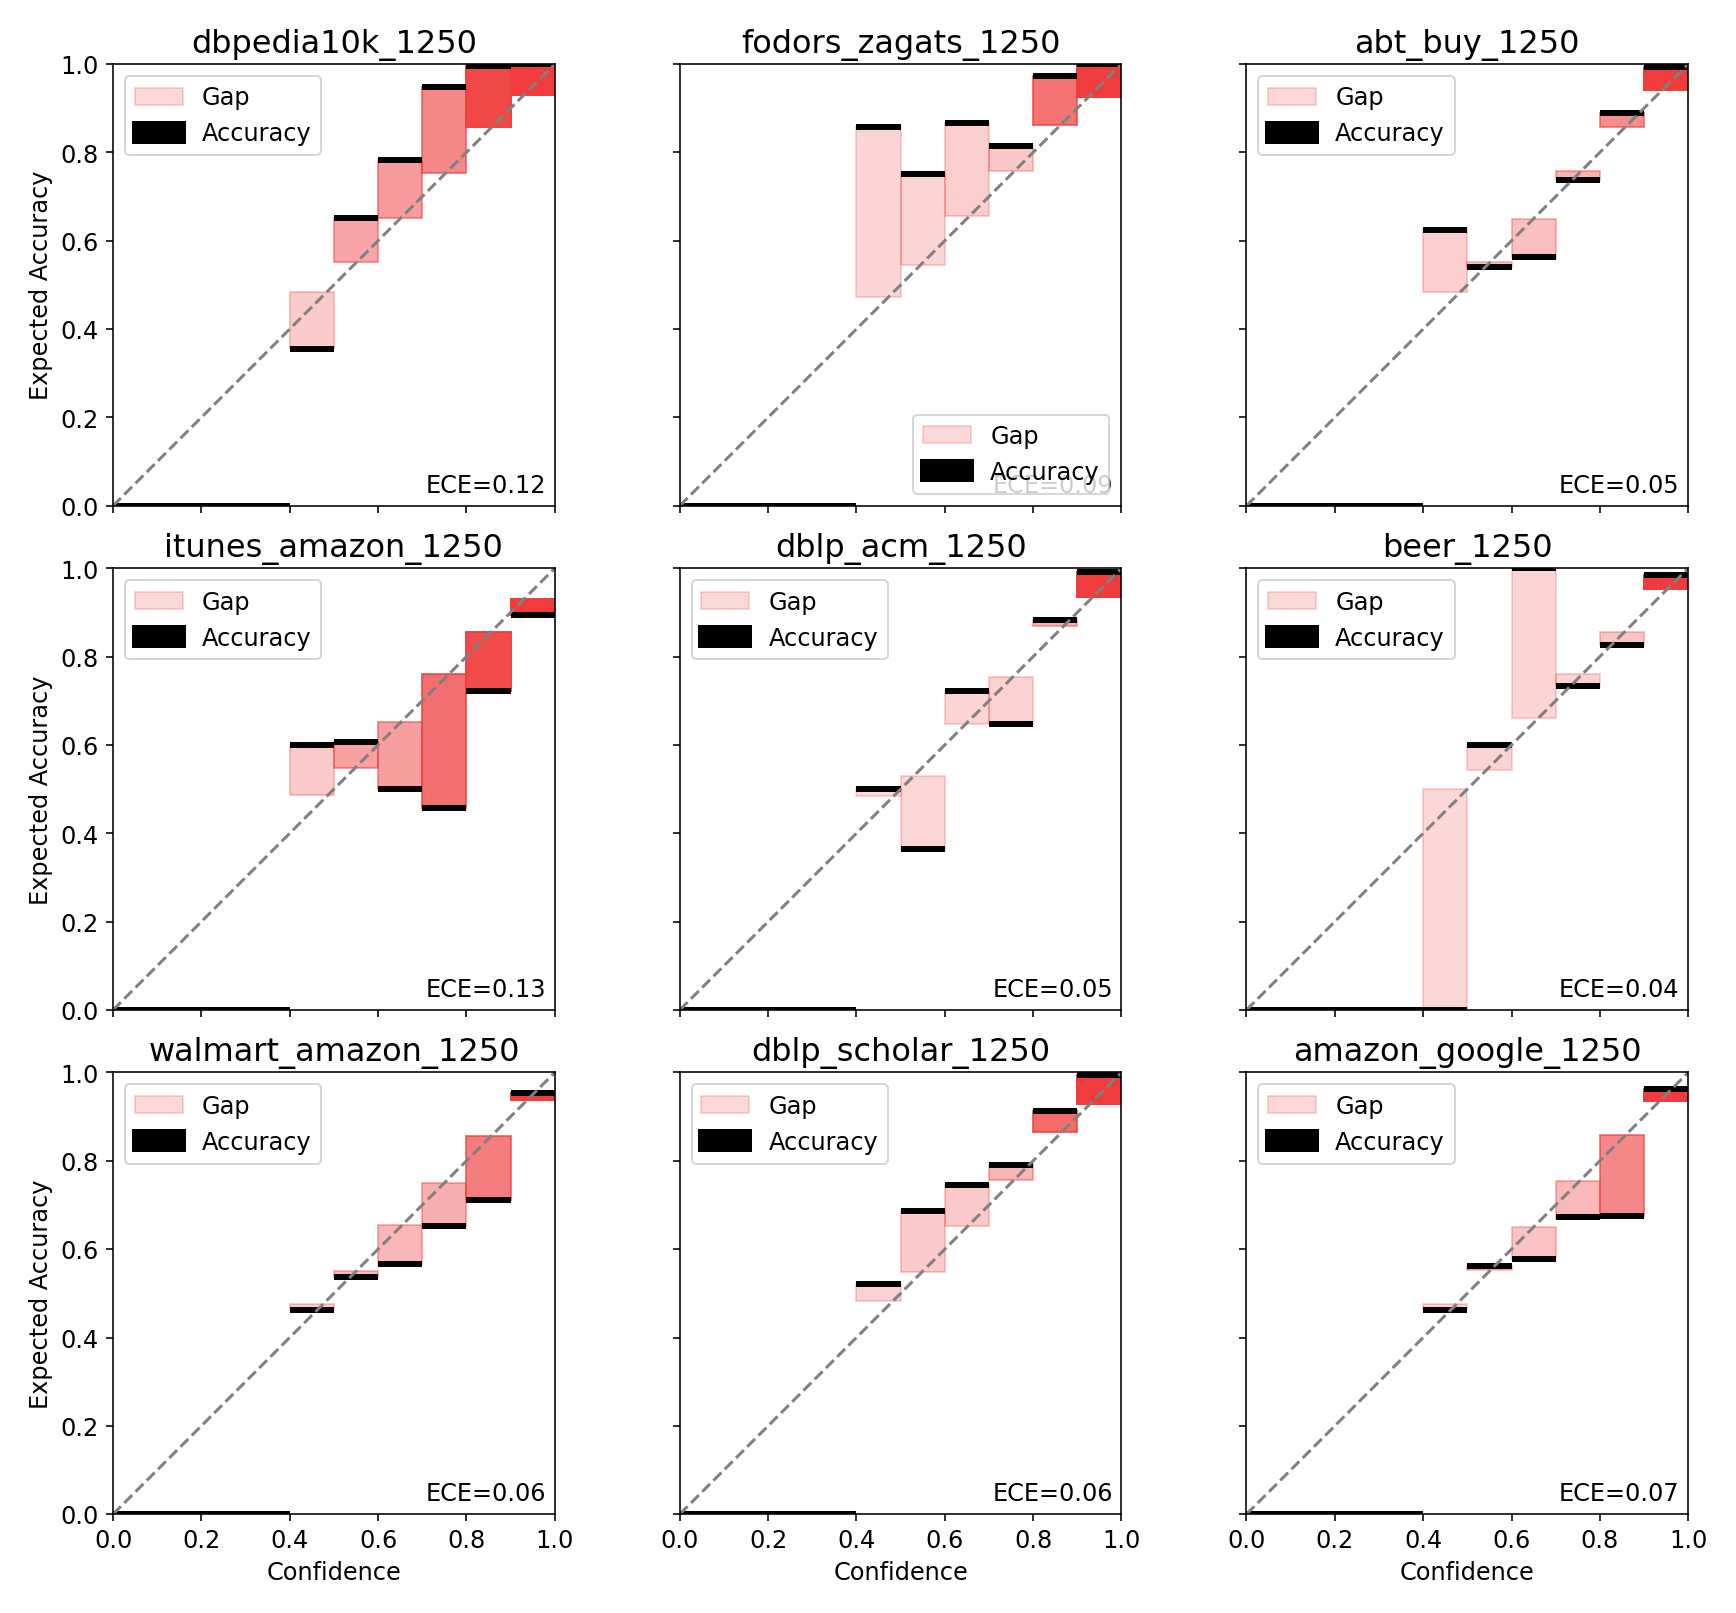
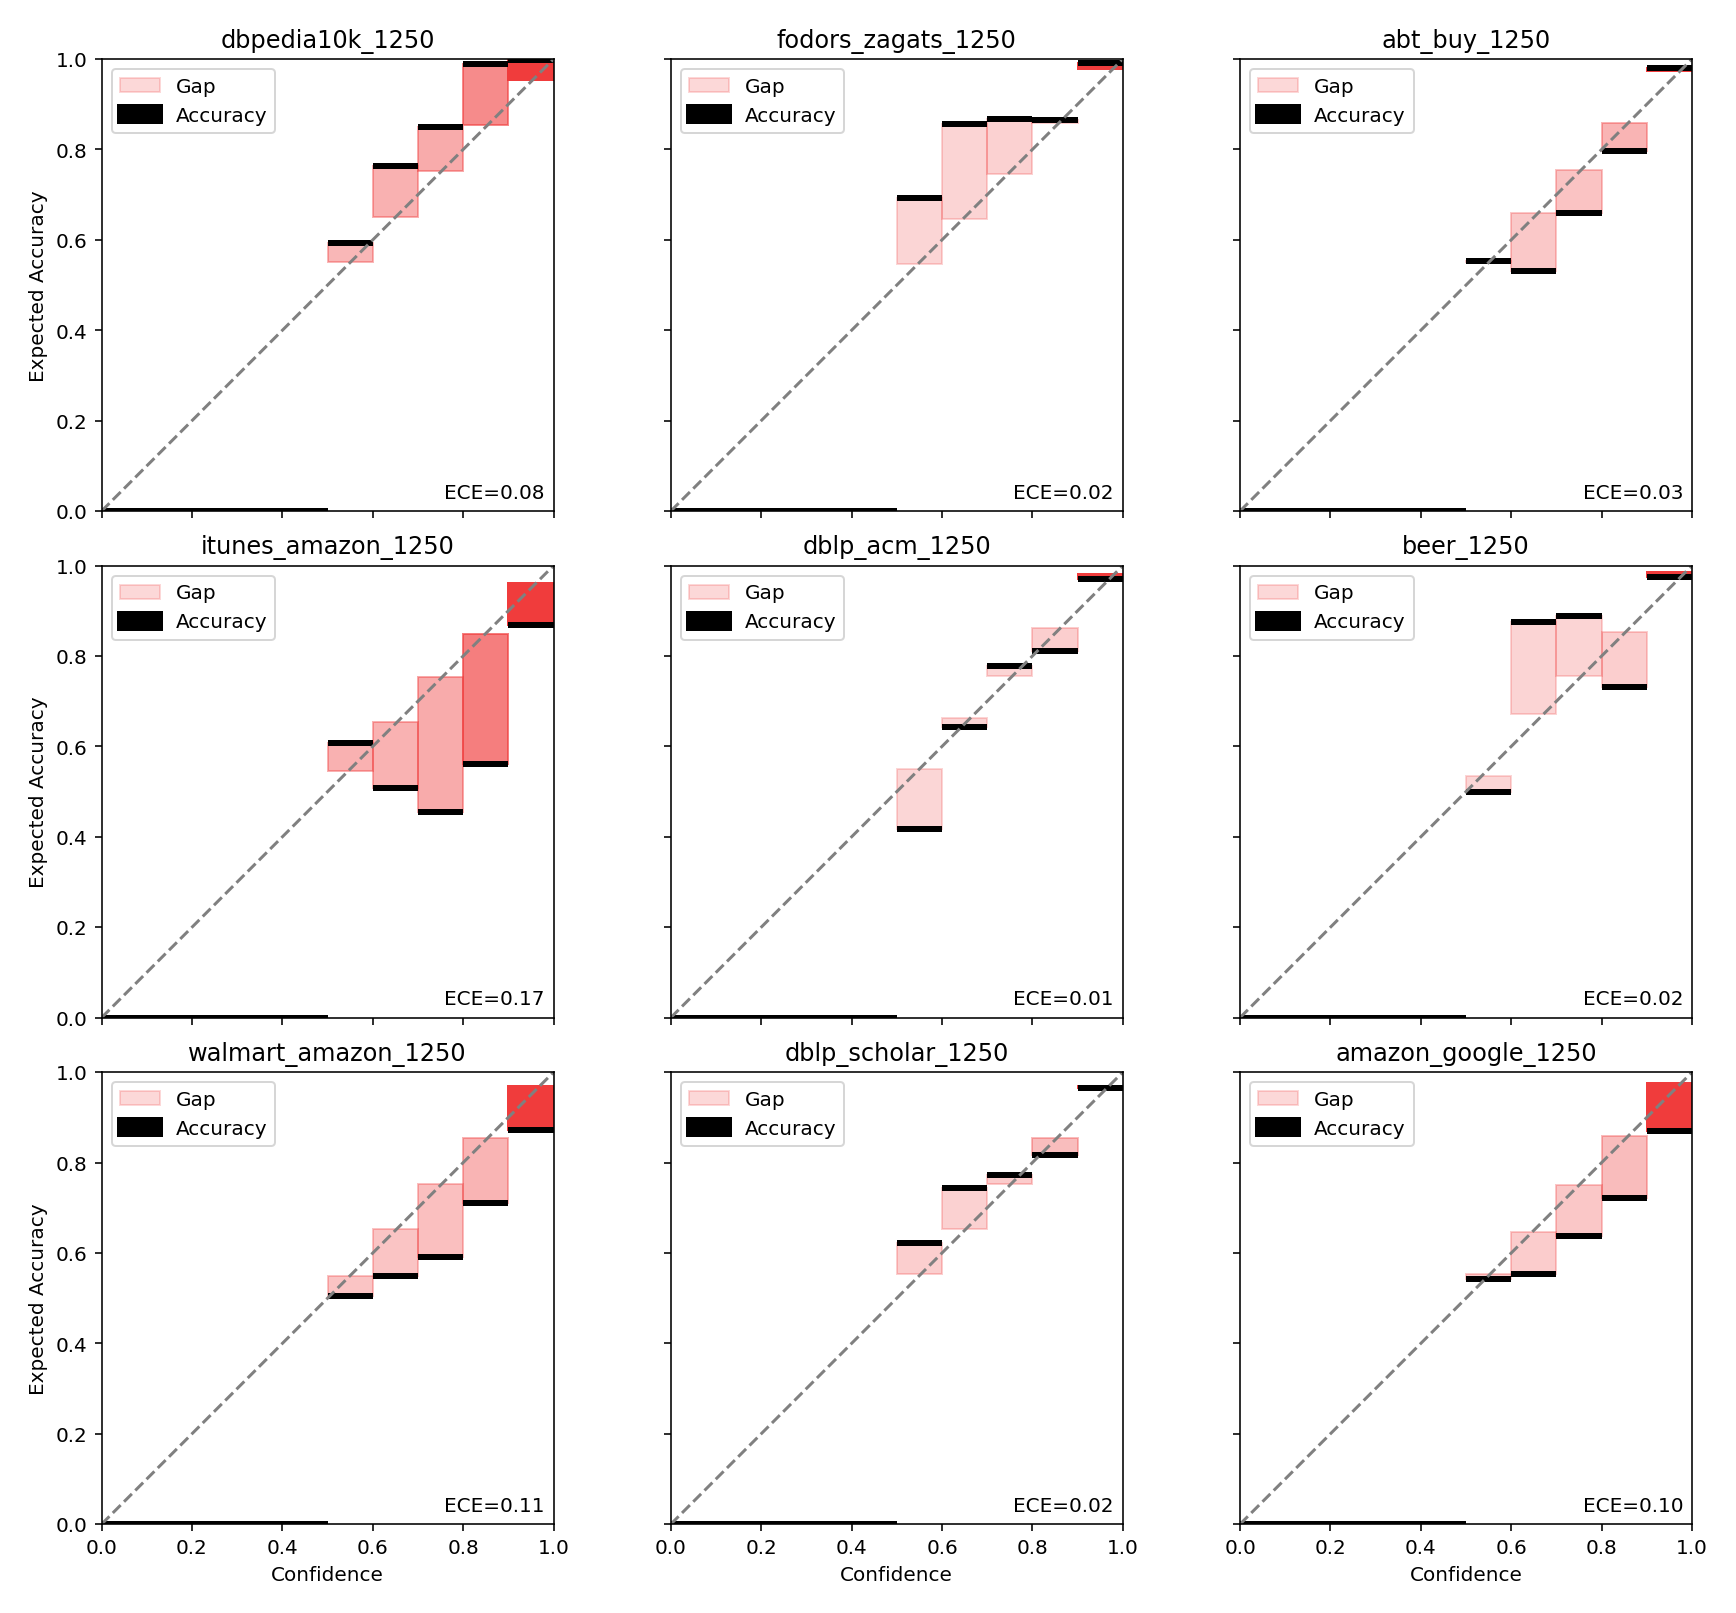
Change probability extraction, factor out data method in calibration

diff --git a/calibration.py b/calibration.py
@@ -1,47 +1,63 @@
-from evalrun import read_run
+from typing import Iterable
+from evalrun import read_run_alternate
 from sklearn.metrics import brier_score_loss
 from pathlib import Path
 import matplotlib.pyplot as plt
-import pandas as pd
 from reliability_diagrams import *
+import pandas as pd
 
 
-# Override matplotlib default styling.
-# plt.style.use("seaborn")
+def setup_plt():
+    # Override matplotlib default styling.
+    plt.style.use("seaborn-v0_8")
+    plt.rc("font", size=12)
+    plt.rc("axes", labelsize=12)
+    plt.rc("xtick", labelsize=12)
+    plt.rc("ytick", labelsize=12)
+    plt.rc("legend", fontsize=12)
 
-plt.rc("font", size=12)
-plt.rc("axes", labelsize=12)
-plt.rc("xtick", labelsize=12)
-plt.rc("ytick", labelsize=12)
-plt.rc("legend", fontsize=12)
+    plt.rc("axes", titlesize=16)
+    plt.rc("figure", titlesize=16)
 
-plt.rc("axes", titlesize=16)
-plt.rc("figure", titlesize=16)
 
-if __name__ == "__main__":
-    results = dict()
+def calibration_data(paths: Iterable[Path]):
     dfdata = []
-    for path in Path("/home/v/coding/ermaster/runs").glob("*force_hash-gpt*.json"):
-        truths, predictions, entropies, probabilities = read_run(path)
-        correct = (truths == predictions).astype(int)
+    results = dict()
+    for path in paths:
+        truths, predictions, _, probabilities = read_run_alternate(path)
         # print(path.stem, brier_score_loss(correct, probabilities))
         dataset_name = (
             path.stem.split("-")[0].replace("structured_", "").replace("textual_", "")
         )
-        brier = brier_score_loss(correct, probabilities)
+        probabilities_brier = probabilities.copy()
+        pred0 = 0 == predictions
+        probabilities_brier[pred0] = 1 - probabilities_brier[pred0]
+        brier = brier_score_loss(truths, probabilities_brier)
         ece = compute_calibration(truths, predictions, probabilities, num_bins=10)[
             "expected_calibration_error"
         ]
-        dfdata.append({"Dataset": dataset_name, "Brier Score": brier, "ECE": ece})
-
+        dfdata.append(
+            {
+                "Dataset": dataset_name,
+                "Brier Score": brier,
+                "ECE": ece,
+            }
+        )
         results[dataset_name] = {
             "true_labels": truths,
             "pred_labels": predictions,
             "confidences": probabilities,
         }
         # Create a DataFrame from the results list
-    df = pd.DataFrame(dfdata)
+    return pd.DataFrame(dfdata), results
 
+
+if __name__ == "__main__":
+    # Create a DataFrame from the results list
+    df, results = calibration_data(
+        Path("/home/v/coding/ermaster/runs").glob("*force_hash-gpt*.json")
+    )
+    df.to_csv(f"eval_writeup/hash_calibration.csv", index=False)
     # Display the DataFrame
     print(df)
     fig = reliability_diagrams(

diff --git a/evalrun.py b/evalrun.py
@@ -46,6 +46,45 @@ def read_run(run: Path):
     )
 
 
+def read_run_alternate(run: Path):
+    Path("eval").mkdir(parents=True, exist_ok=True)
+    truths = []
+    predictions = []
+    entropies = []
+    probabilities = []
+    with open(run, "r") as file:
+        data = json.load(file)
+    for sample in data:
+        prompt, truth, completion = sample["p"], sample["t"], sample["c"]
+        topprobs_first = completion["logprobs"]["top_logprobs"][0]
+        # Define Yes/No tokens
+        yn_tokens = ["Yes", "No", " Yes", " No"]
+        # Initialize dictionary for Yes/No probabilities
+        yn_probs = {}
+        total_probability = 0
+        max_prob_token = None
+        # Sum the probabilities of Yes/No tokens
+        for t in yn_tokens:
+            yn_probs[t] = np.exp(topprobs_first.get(t, -1000))
+            total_probability += yn_probs[t]
+        p_yes = (yn_probs["Yes"] + yn_probs[" Yes"]) / total_probability
+        p_no = (yn_probs["No"] + yn_probs[" No"]) / total_probability
+        # Find the token with the maximum probability
+        # max_prob_token = max(yn_probs, key=yn_probs.get)
+        # Calculate the ratio of the max_prob_token probability to the total probability
+        # probability = yn_probs[max_prob_token] / total_probability
+        entropies.append(bernoulli_entropy(p_yes / (p_yes + p_no)))
+        truths.append(truth)
+        predictions.append(p_yes > p_no)
+        probabilities.append(p_yes if p_yes > p_no else p_no)
+    return (
+        np.array(truths),
+        np.array(predictions),
+        np.array(entropies),
+        np.array(probabilities),
+    )
+
+
 def eval(run: Path):
     truths, predictions, entropies, _ = (np.array(l) for l in read_run(run))
     truths = truths.astype(bool)
